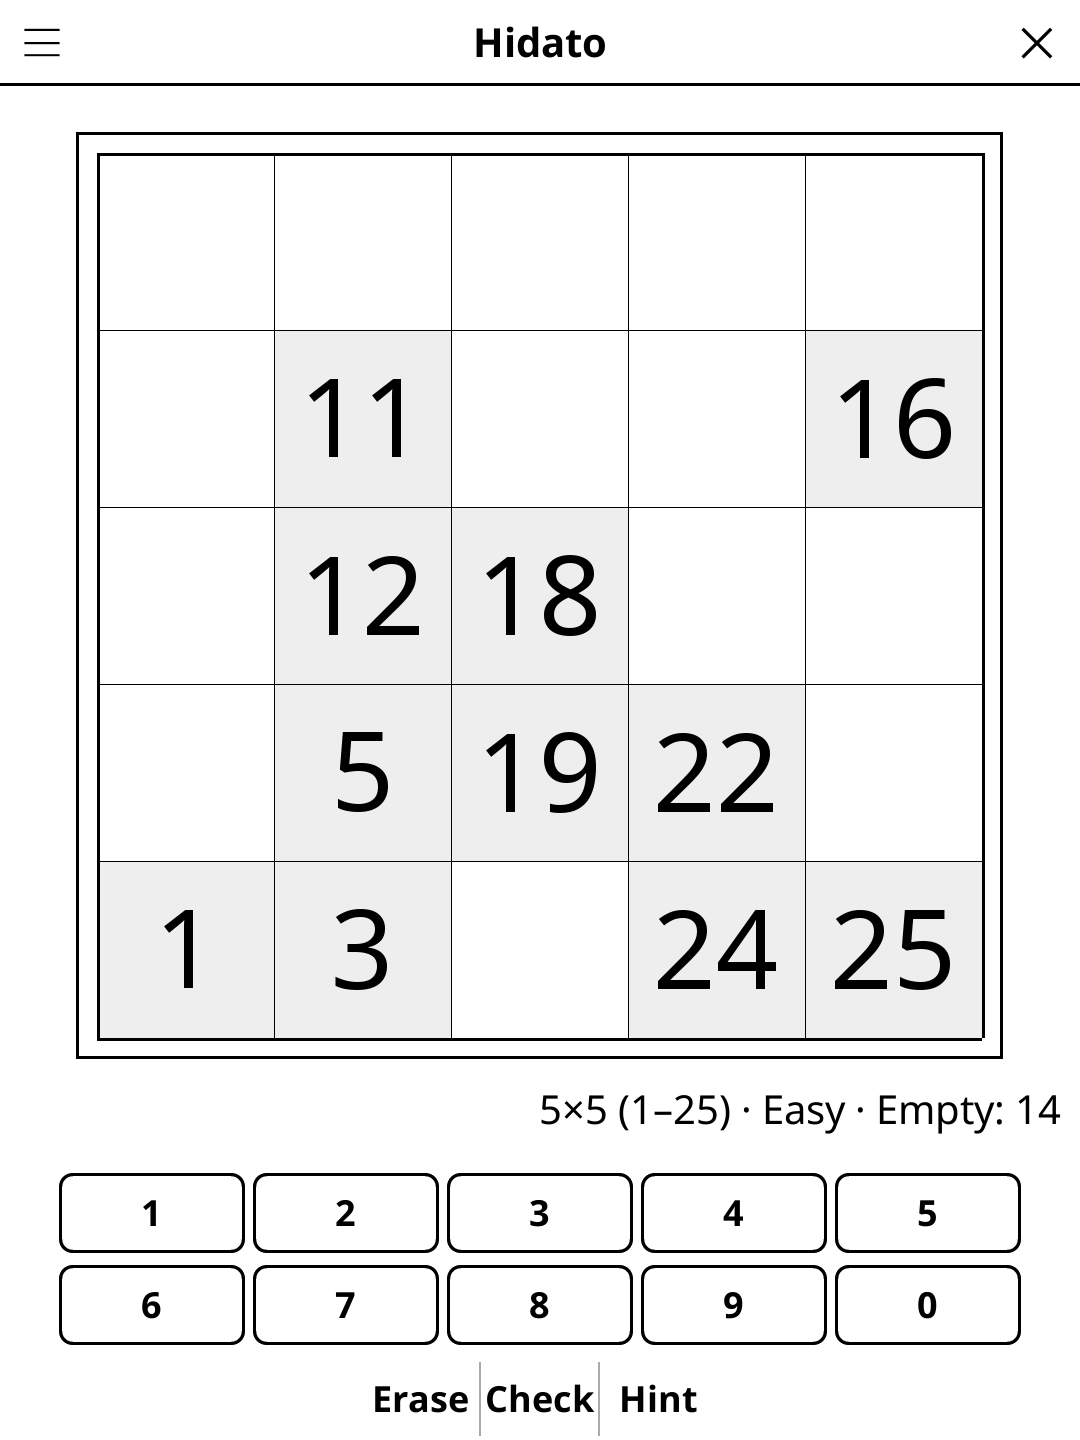
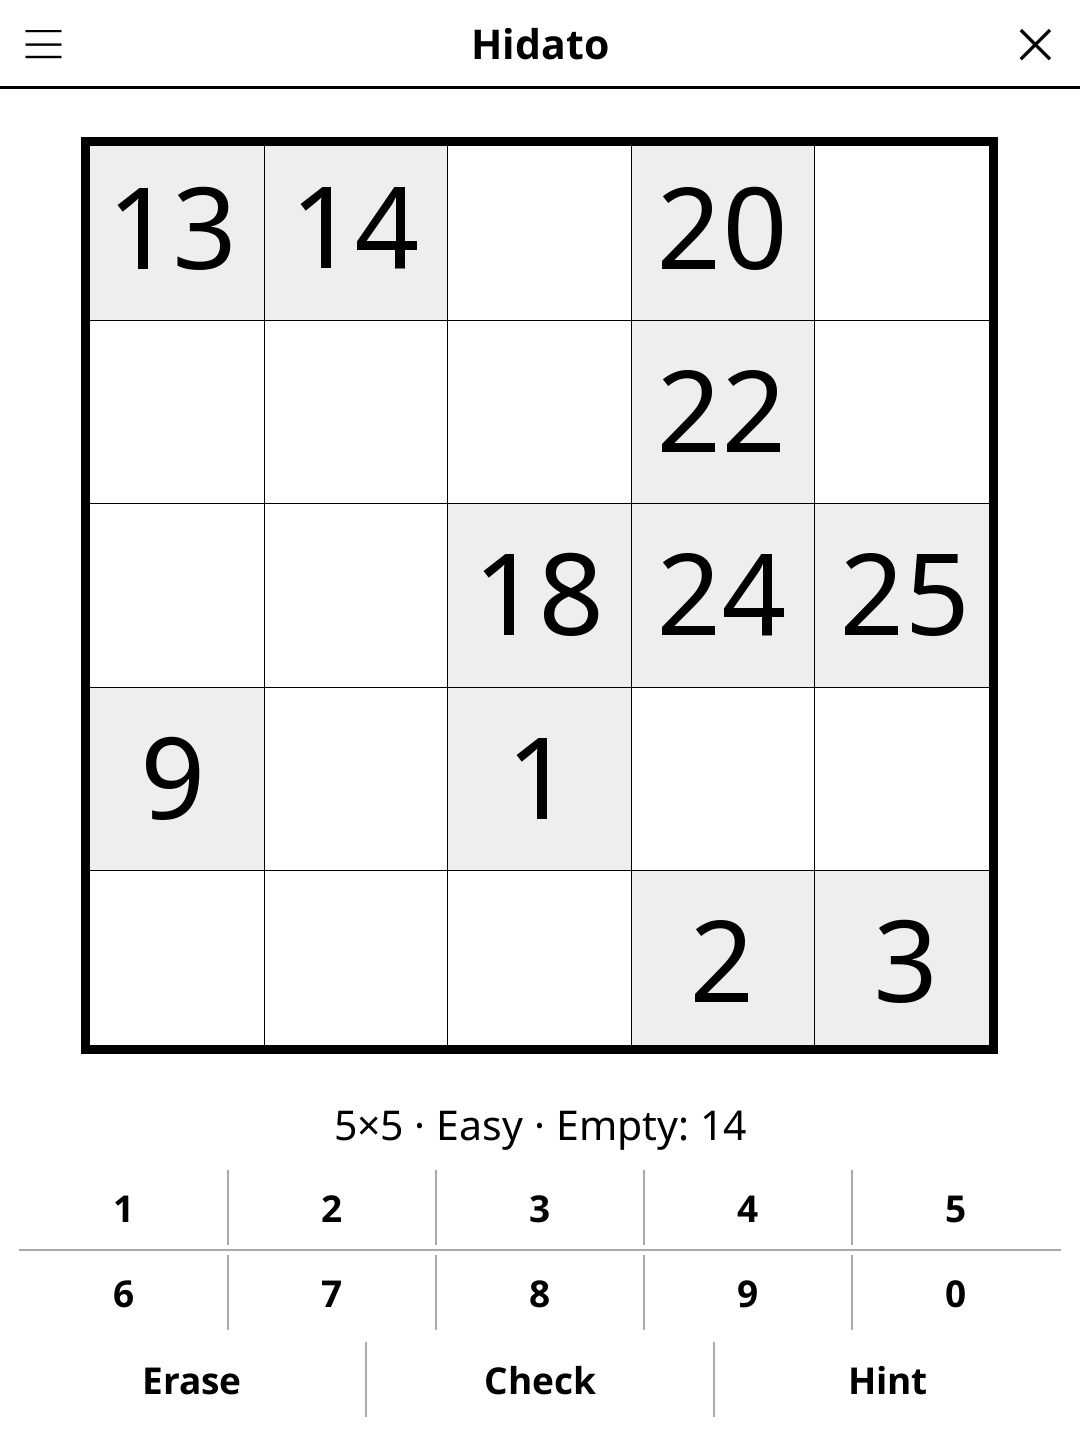
release: 1.3.0 -- redesigned screen, harmonised menu, New game at round end
Screen redesign (full-width action bar, unified pad, status line, larger
board), harmonised title-bar menu, and a "New game" button once the round
is over. See CHANGELOG.md.

diff --git a/CHANGELOG.md b/CHANGELOG.md
@@ -2,6 +2,29 @@
 
 All notable changes to this project will be documented in this file.
 
+## [1.3.0] - 2026-10-30
+
+### Added
+- "New game" once the puzzle is solved: the action bar shows it in place of
+  Erase, Check and Hint, so the next puzzle no longer needs the menu.
+- The rules now explain how to enter a number: two digits on the keypad, 0
+  then 7 for 7.
+
+### Changed
+- Redesigned play screen, in line with the other games: a full-width action
+  bar, the unified number pad (two even rows of five), a larger board that
+  fills the available room, and one thick frame around it. The status line
+  reads "size · difficulty · Empty: n" and wraps in landscape instead of
+  being cut off.
+- Title-bar menu shows "Difficulty: …" in full (was "Diff: …").
+- New README screenshot.
+
+### Fixed
+- Using Hint wiped the saved game: the board was saved as nothing, so
+  reopening the game after a hint started a new puzzle. And when a hint
+  fills the last cell, the status now shows the win message.
+- The board's closing grid line was drawn just past its edge.
+
 ## [1.2.2] - 2026-10-07
 
 ### Fixed
